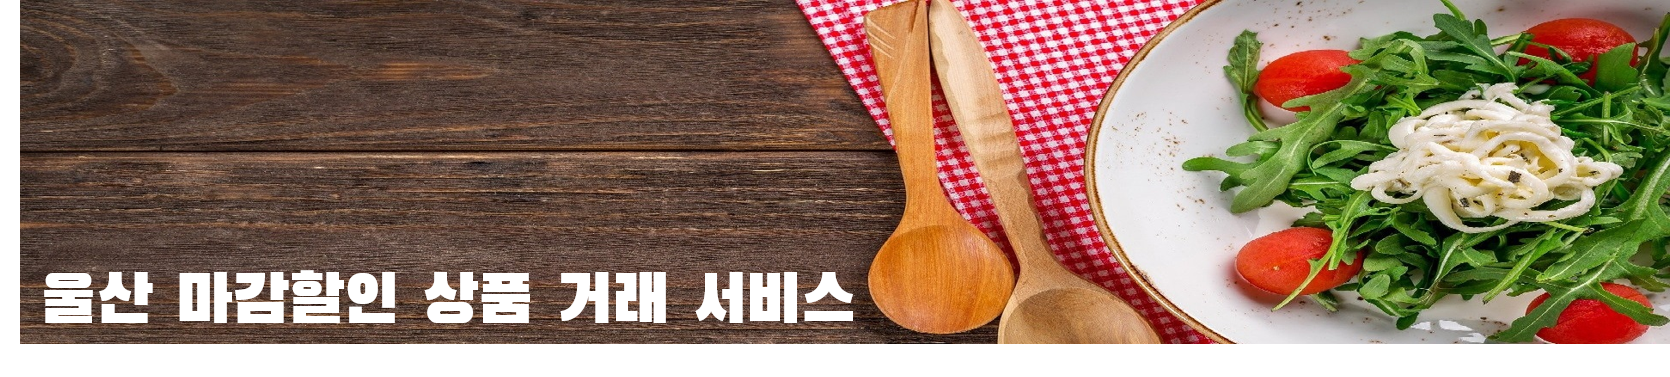
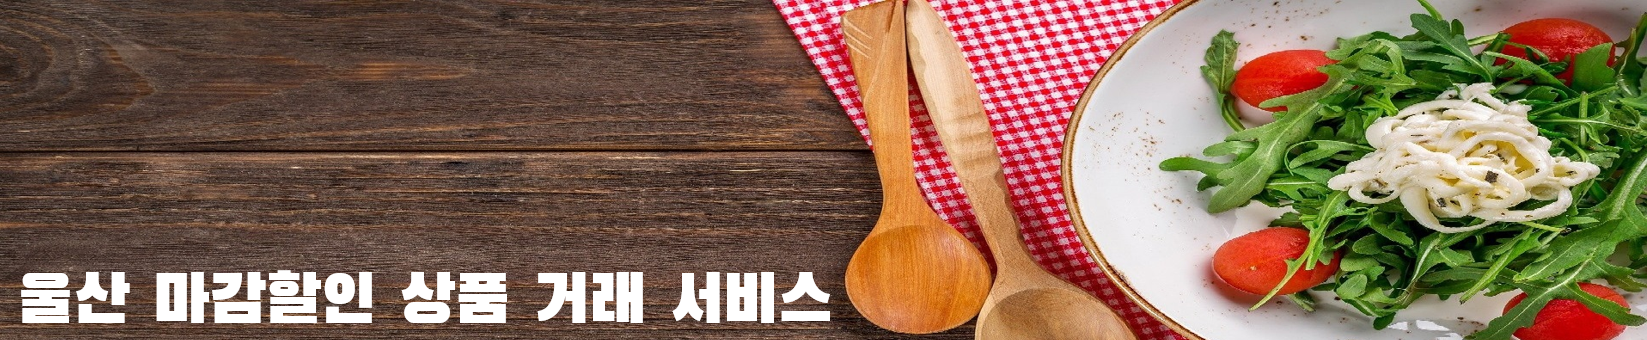
배너 사진변경

diff --git a/src/main/resources/static/js/main/main.js b/src/main/resources/static/js/main/main.js
@@ -18,10 +18,16 @@
 //  setTimeout(showSlides, 4000);
 //}
 let slideIndex = 1;
+let intervalTime = 3000;
 showSlides(slideIndex);
+let currentIntervalId = setInterval(showSlides, intervalTime);
 
 function plusSlides(n) {
-    showSlides(slideIndex += n);
+    if(n == -1) showSlides(slideIndex += (n));
+    showSlides(slideIndex += (n - 1));
+//    slideIndex += n;
+//    clearInterval(currentIntervalId);
+//    currentIntervalId = setInterval(showSlides, intervalTime);
 }
 
 function currentSlide(n) {
@@ -44,7 +50,7 @@ function showSlides(n) {
     dots[slideIndex - 1].className += " active";
     slideIndex++;
     if(slideIndex > slides.length) slideIndex = 1;
-    setTimeout(showSlides, 3000);
+//    setTimeout(showSlides, 3000);
 }
 
 //document.querySelector('.heart_Btn').addEventListener('click', heart);

diff --git a/src/main/resources/templates/main/main.html b/src/main/resources/templates/main/main.html
@@ -17,6 +17,9 @@
     <figure class="figure container">
         <div class="slideshow-container">
             <div class="banner fade">
+                <img th:src="@{/img/main/임시/bnr_01.png}" />
+            </div>
+            <div class="banner fade">
                 <img th:src="@{/img/main/bnr_0.png}" />
             </div>
             <div class="banner fade">
@@ -43,6 +46,7 @@
                 <span class="dot" onclick="currentSlide(3)"></span>
                 <span class="dot" onclick="currentSlide(4)"></span>
                 <span class="dot" onclick="currentSlide(5)"></span>
+                <span class="dot" onclick="currentSlide(6)"></span>
             </div>
         </div>
     </figure>
